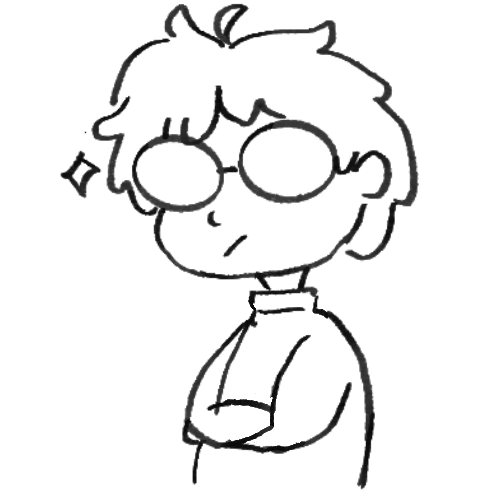
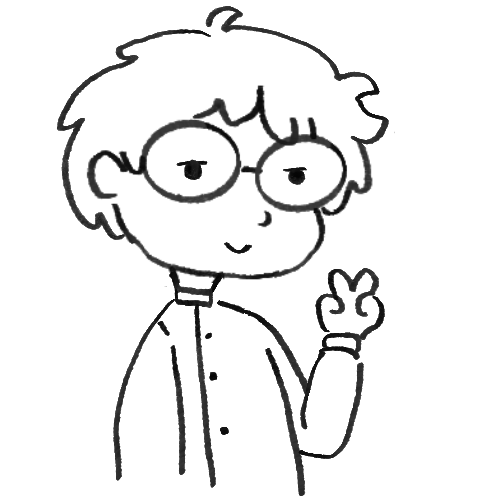
add new case study, hide funhub onboarding case study

diff --git a/work/funhub-design-system.html b/work/funhub-design-system.html
@@ -3,7 +3,7 @@
 <head>
   <meta charset="UTF-8">
   <meta name="viewport" content="width=device-width, initial-scale=1.0">
-  <title data-zh="在改版途中重建 Funhub 的設計系統 — Enn-wen">Rebuilding Funhub’s Design System, Mid-Revamp — Enn-wen</title>
+  <title data-zh="從地基重建一套設計系統 — Enn-wen">Rebuilding a Design System from the Foundation Up — Enn-wen</title>
   <meta name="description" data-zh="設計系統案例分享:在全站改版進行中,獨自將一套數值全寫死的元件庫,從變數、原子元件到完整元件重建為以變數驅動的設計系統。" content="Design system case study: rebuilding a hard-coded component library into a variable-driven system — variables, atoms, then components — solo, mid-revamp.">
   <link rel="icon" type="image/png" href="../img/header-icon.png">
   <link rel="stylesheet" href="../css/style.css">
@@ -37,15 +37,12 @@
   <main>
     <section class="case-hero">
       <span class="category"><span class="i18n-en">Design System · Mobile App</span><span class="i18n-zh">設計系統・行動應用程式</span></span>
-      <h1><span class="i18n-en">Rebuilding Funhub’s Design System, Mid-Revamp</span><span class="i18n-zh">在改版途中重建 Funhub 的設計系統</span></h1>
+      <h1><span class="i18n-en">Rebuilding a Design System from the Foundation Up</span><span class="i18n-zh">從地基重建一套設計系統</span></h1>
       <p class="lede"><span class="i18n-en">How I rebuilt a broken, hard-coded component library into a variable-driven system — solo, while the whole app was being redesigned around me.</span><span class="i18n-zh">我如何在全公司進行 App 改版的同時,獨自將一套破碎、數值全寫死的元件庫,重建成以變數驅動的設計系統。</span></p>
     </section>
 
     <div class="case-cover">
-      <div class="figure-placeholder">
-        <p><strong><span class="i18n-en">Hero Image</span><span class="i18n-zh">主視覺圖片</span></strong><br>
-        <span class="i18n-en">Overview page of the rebuilt component library in Figma — a clean, organised grid of core components.</span><span class="i18n-zh">重建後的 Figma 元件庫總覽頁面——整齊有序的核心元件排列。</span></p>
-      </div>
+      <img src="img/design-systems-cover.png" alt="Overview of Funhub’s rebuilt component library in Figma — an organised grid of core components" width="1600" height="900">
     </div>
 
     <article class="case-body">
@@ -59,15 +56,15 @@
       <dl class="meta">
         <div>
           <dt><span class="i18n-en">Role</span><span class="i18n-zh">角色</span></dt>
-          <dd><span class="i18n-en">Sole Product Designer · Design System Lead</span><span class="i18n-zh">唯一產品設計師・設計系統負責人</span></dd>
+          <dd><span class="i18n-en">Sole Product Designer, Design System Lead</span><span class="i18n-zh">唯一產品設計師・設計系統負責人</span></dd>
         </div>
-        <div>
+        <!-- <div>
           <dt><span class="i18n-en">Team</span><span class="i18n-zh">團隊</span></dt>
           <dd><span class="i18n-en">1 designer, 1 developer, 1 PM</span><span class="i18n-zh">1 位設計師、1 位工程師、1 位產品經理</span></dd>
-        </div>
+        </div> -->
         <div>
           <dt><span class="i18n-en">Tools</span><span class="i18n-zh">工具</span></dt>
-          <dd><span class="i18n-en">Figma (variables, components)</span><span class="i18n-zh">Figma(變數、元件)</span></dd>
+          <dd><span class="i18n-en">Figma</span><span class="i18n-zh">Figma(變數、元件)</span></dd>
         </div>
       </dl>
       <hr>
@@ -254,7 +251,7 @@
         </div>
         <div class="sticky-note sticky-note-card note-a">
           <!-- swap for: <img class="note-doodle" src="img/…" alt="" loading="lazy"> -->
-          <div class="note-doodle note-doodle-empty"><span class="i18n-en">Doodle</span><span class="i18n-zh">手繪插圖</span></div>
+          <img class="note-doodle" src="img/design-system-pm.png" alt="" width="500" height="500" loading="lazy">
           <h4 class="note-role"><span class="i18n-en">The PM</span><span class="i18n-zh">產品經理</span></h4>
           <p class="i18n-en">Saw it as low priority against delivery pressure. I made the efficiency case and won the space to keep building it in.</p>
           <p class="i18n-zh">在交付壓力下認為這件事優先度不高。我從效率的角度說服他,爭取到繼續把系統做進去的空間。</p>
@@ -266,26 +263,39 @@
       
 
       <h2><span class="i18n-en">Outcome</span><span class="i18n-zh">成果</span></h2>
-      <div class="takeaways-grid takeaways-grid-3">
+      <div class="takeaways-grid takeaways-grid-stacked">
         <div class="takeaway">
           <img class="card-doodle" src="img/design-system-designer.png" alt="" width="500" height="500" loading="lazy">
-          <h3><span class="i18n-en">For the Designer</span><span class="i18n-zh">對設計師</span></h3>
-          <p class="i18n-en">A font swap went from hours of manual edits to one variable update.</p>
-          <p class="i18n-zh">換字體從數小時的手動修改,變成只改一個變數。</p>
+          <div class="takeaway-body">
+            <h3><span class="i18n-en">For the Designer</span><span class="i18n-zh">對設計師</span></h3>
+            <p class="i18n-en">Design changes update everywhere from one place, with documentation on how to use the system.</p>
+            <p class="i18n-zh">設計上的調整只要改一處就會全面更新,並附有系統的使用說明文件。</p>
+          </div>
         </div>
         <div class="takeaway">
           <img class="card-doodle" src="img/design-system-dev.png" alt="" width="500" height="500" loading="lazy">
-          <h3><span class="i18n-en">For Engineering</span><span class="i18n-zh">對工程</span></h3>
-          <p class="i18n-en">Fewer design clarifications — the developer self-serves from the guidelines.</p>
-          <p class="i18n-zh">設計確認的往返變少——工程師能自行查閱規範。</p>
+          <div class="takeaway-body">
+            <h3><span class="i18n-en">For Engineering</span><span class="i18n-zh">對工程</span></h3>
+            <p class="i18n-en">Fewer design clarifications — the developer self-serves from the guidelines.</p>
+            <p class="i18n-zh">設計確認的往返變少——工程師能自行查閱規範。</p>
+          </div>
         </div>
         <div class="takeaway">
           <img class="card-doodle" src="img/design-system-teams.png" alt="" width="500" height="500" loading="lazy">
-          <h3><span class="i18n-en">For the Team</span><span class="i18n-zh">對團隊</span></h3>
-          <p class="i18n-en">One source of truth everyone can point to — marketing, product, and engineering all pull from the same library instead of guessing.</p>
-          <p class="i18n-zh">一個所有人都能引用的單一真實來源——行銷、產品與工程都從同一套元件庫取用,不必再各自猜測。</p>
+          <div class="takeaway-body">
+            <h3><span class="i18n-en">For the Team</span><span class="i18n-zh">對團隊</span></h3>
+            <p class="i18n-en">One source of truth everyone can point to — marketing, product, and engineering all pull from the same library instead of guessing.</p>
+            <p class="i18n-zh">一個所有人都能引用的單一真實來源——行銷、產品與工程都從同一套元件庫取用,不必再各自猜測。</p>
+          </div>
         </div>
       </div>
+
+      <!-- <figure>
+        <img src="img/design-system-outcome.png" alt="Overview of Funhub’s rebuilt component library in Figma — an organised grid of core components" loading="lazy">
+      </figure> -->
+      <figure>
+        <img src="img/design-system-outcome.png" alt="Overview of Funhub’s rebuilt component library in Figma — an organised grid of core components" loading="lazy">
+      </figure>
 
       <h2><span class="i18n-en">Next Step</span><span class="i18n-zh">後續步驟</span></h2>
       <p class="i18n-en">This was intentionally a first maturity step, not a finish line. The roadmap from here:</p>
@@ -309,18 +319,20 @@
       </div>
 
       <h2><span class="i18n-en">What I Learned</span><span class="i18n-zh">我學到的</span></h2>
-      <p class="i18n-en"><strong>Right-Sizing Beats Best Practice</strong><br>
-      The "correct" system on paper would have failed here. Scoping to what the team could absorb, and then improving later, was what made it stick.</p>
-      <p class="i18n-zh"><strong>「合適的規模」勝過「最佳實務」</strong><br>
-      紙上「正確」的系統,在這裡反而會失敗。把範圍收斂到團隊能承受的程度、並刻意把其餘部分往後延,才是讓它真正被用起來的原因。</p>
-      <p class="i18n-en"><strong>Efficiency Starts With the Base</strong><br>
-      A strong base matters: without it, the whole system becomes messy and hard to work with, and efficiency suffers. Building variables and atoms early let the revamp screens use the system while it was still being built, and a font change became a one-line fix.</p>
-      <p class="i18n-zh"><strong>建構順序決定了彈性</strong><br>
-      彈性沒辦法事後補上,它取決於你最先做了什麼。先做變數與原子元件,改版畫面才能在系統尚未完工時就開始使用它,而換字體也才會一直是一個「改一次」的決定。</p>
-      <p class="i18n-en"><strong>Adoption Is a Design Problem Too</strong><br>
-      The components were the easy part. Getting a developer and a PM to trust and use the system took gradual onboarding and an efficiency argument — not a mandate.</p>
-      <p class="i18n-zh"><strong>導入本身也是一道設計題</strong><br>
-      元件是相對容易的部分。要讓工程師與產品經理信任並使用這套系統,靠的是漸進式的引導與效率上的說服,而不是命令。</p>
+      <ul>
+        <li class="i18n-en"><strong>Right-Sizing Beats Best Practice</strong><br>
+        The "correct" system on paper would have failed here. Scoping to what the team could absorb, and then improving later, was what made it stick.</li>
+        <li class="i18n-zh"><strong>「合適的規模」勝過「最佳實務」</strong><br>
+        紙上「正確」的系統,在這裡反而會失敗。把範圍收斂到團隊能承受的程度、並刻意把其餘部分往後延,才是讓它真正被用起來的原因。</li>
+        <li class="i18n-en"><strong>Efficiency Starts With the Base</strong><br>
+        A strong base matters: without it, the whole system becomes messy and hard to work with, and efficiency suffers. Building variables and atoms early let the revamp screens use the system while it was still being built, and a font change became a one-line fix.</li>
+        <li class="i18n-zh"><strong>建構順序決定了彈性</strong><br>
+        彈性沒辦法事後補上,它取決於你最先做了什麼。先做變數與原子元件,改版畫面才能在系統尚未完工時就開始使用它,而換字體也才會一直是一個「改一次」的決定。</li>
+        <li class="i18n-en"><strong>Adoption Is a Design Problem Too</strong><br>
+        The components were the easy part. Getting a developer and a PM to trust and use the system took gradual onboarding and an efficiency argument — not a mandate.</li>
+        <li class="i18n-zh"><strong>導入本身也是一道設計題</strong><br>
+        元件是相對容易的部分。要讓工程師與產品經理信任並使用這套系統,靠的是漸進式的引導與效率上的說服,而不是命令。</li>
+      </ul>
     </article>
 
     <nav class="case-nav" aria-label="Project navigation">

diff --git a/index.html b/index.html
@@ -69,7 +69,19 @@
       <h2><span class="i18n-en">Selected Works</span><span class="i18n-zh">精選作品</span></h2>
       <div class="work-grid">
 
-         <a class="tile tile-b" href="work/imoney-user-research.html" data-reveal>
+        <a class="tile tile-b" href="work/funhub-design-system.html" data-reveal>
+          <figure class="tile-media">
+            <img src="work/img/design-system-thumbnail.png" alt="Funhub’s rebuilt design system in Figma — an organised grid of core components" loading="lazy">
+          </figure>
+          <div class="tile-caption">
+            <div>
+              <h3><span class="i18n-en">Rebuilding a Design System from the Foundation Up</span><span class="i18n-zh">從地基重建一套設計系統</span></h3>
+            </div>
+            <span class="tile-arrow" aria-hidden="true">→</span>
+          </div>
+        </a>
+
+        <a class="tile tile-b" href="work/imoney-user-research.html" data-reveal>
           <figure class="tile-media">
             <img src="work/img/imoney-user-research-thumbnail.jpg" alt="From Survey to Interview: understanding why iMoney users stay or leave — placeholder thumbnail" loading="lazy">
           </figure>
@@ -93,7 +105,7 @@
           </div>
         </a>
 
-        <a class="tile tile-b" href="work/funhub-signup.html" data-reveal>
+        <!-- <a class="tile tile-b" href="work/funhub-signup.html" data-reveal>
           <figure class="tile-media">
             <img src="work/img/funhub-signup-999812566b.png" alt="Funhub sign-up flow improvement — onboarding screens" loading="lazy">
           </figure>
@@ -103,7 +115,7 @@
             </div>
             <span class="tile-arrow" aria-hidden="true">→</span>
           </div>
-        </a>
+        </a> -->
 
         <!-- <a class="tile tile-b" href="work/hiredly-onboarding.html" data-reveal>
           <figure class="tile-media">
@@ -124,21 +136,6 @@
           <div class="tile-caption">
             <div>
               <h3><span class="i18n-en">Hiredly’s Resume Builder (w. User Profile Redesign)</span><span class="i18n-zh">Hiredly 的履歷產生器(含個人檔案重新設計)</span></h3>
-            </div>
-            <span class="tile-arrow" aria-hidden="true">→</span>
-          </div>
-        </a>
-
-        <a class="tile tile-b" href="work/funhub-design-system.html" data-reveal>
-          <figure class="tile-media">
-            <div class="figure-placeholder">
-              <span class="icon" aria-hidden="true">🧩</span>
-              <p><strong><span class="i18n-en">Thumbnail</span><span class="i18n-zh">縮圖</span></strong></p>
-            </div>
-          </figure>
-          <div class="tile-caption">
-            <div>
-              <h3><span class="i18n-en">Rebuilding Funhub’s Design System, Mid-Revamp</span><span class="i18n-zh">在改版途中重建 Funhub 的設計系統</span></h3>
             </div>
             <span class="tile-arrow" aria-hidden="true">→</span>
           </div>

diff --git a/footer.html b/footer.html
@@ -16,12 +16,12 @@
           <div class="footer-col">
             <p class="footer-heading"><span class="i18n-en">My Work</span><span class="i18n-zh">我的作品</span></p>
             <ul class="footer-links">
-              <li><a href="/work/funhub-deals.html"><span class="i18n-en">Funhub Deals &amp; Vouchers</span><span class="i18n-zh">Funhub 優惠與票券</span></a></li>
-              <li><a href="/work/funhub-design-system.html"><span class="i18n-en">Funhub Design System</span><span class="i18n-zh">Funhub 設計系統</span></a></li>
-              <li><a href="/work/funhub-signup.html"><span class="i18n-en">Funhub Sign Up Flow</span><span class="i18n-zh">Funhub 註冊流程</span></a></li>
-              <li><a href="/work/hiredly-onboarding.html"><span class="i18n-en">Hiredly Onboarding</span><span class="i18n-zh">Hiredly 新手導覽</span></a></li>
-              <li><a href="/work/hiredly-resume.html"><span class="i18n-en">Hiredly Resume Builder</span><span class="i18n-zh">Hiredly 履歷產生器</span></a></li>
+              <li><a href="/work/funhub-design-system.html"><span class="i18n-en">Design System Rebuild</span><span class="i18n-zh">設計系統重建</span></a></li>
               <li><a href="/work/imoney-user-research.html"><span class="i18n-en">iMoney User Research</span><span class="i18n-zh">iMoney 使用者研究</span></a></li>
+              <li><a href="/work/funhub-deals.html"><span class="i18n-en">Funhub Deals &amp; Vouchers</span><span class="i18n-zh">Funhub 優惠與票券</span></a></li>
+              <li><a href="/work/hiredly-resume.html"><span class="i18n-en">Hiredly Resume Builder</span><span class="i18n-zh">Hiredly 履歷產生器</span></a></li>
+              <!-- <li><a href="/work/funhub-signup.html"><span class="i18n-en">Funhub Sign Up Flow</span><span class="i18n-zh">Funhub 註冊流程</span></a></li> -->
+              <!-- <li><a href="/work/hiredly-onboarding.html"><span class="i18n-en">Hiredly Onboarding</span><span class="i18n-zh">Hiredly 新手導覽</span></a></li> -->
             </ul>
           </div>
           <div class="footer-col">

diff --git a/work/hiredly-resume.html b/work/hiredly-resume.html
@@ -137,13 +137,13 @@
     </article>
 
     <nav class="case-nav" aria-label="Project navigation">
-      <a href="funhub-signup.html" class="prev">
+      <a href="funhub-deals.html" class="prev">
         <span class="label"><span class="i18n-en">← Previous</span><span class="i18n-zh">← 上一篇</span></span>
-        <span class="title"><span class="i18n-en">Improving the Sign Up Flow for Funhub App</span><span class="i18n-zh">優化 Funhub App 的註冊流程</span></span>
+        <span class="title"><span class="i18n-en">Revamping the Funhub App’s Deals and Voucher Pages</span><span class="i18n-zh">重新設計 Funhub App 的優惠與票券頁面</span></span>
       </a>
       <a href="funhub-design-system.html" class="next">
         <span class="label"><span class="i18n-en">Next →</span><span class="i18n-zh">下一篇 →</span></span>
-        <span class="title"><span class="i18n-en">Rebuilding Funhub’s Design System, Mid-Revamp</span><span class="i18n-zh">在改版途中重建 Funhub 的設計系統</span></span>
+        <span class="title"><span class="i18n-en">Rebuilding a Design System from the Foundation Up</span><span class="i18n-zh">從地基重建一套設計系統</span></span>
       </a>
     </nav>
   </main>

diff --git a/css/style.css b/css/style.css
@@ -1184,6 +1184,7 @@ body.lightbox-open { overflow: hidden; }
 
 .case-cover img {
   width: 100%;
+  height: auto;
   display: block;
   border-radius: var(--radius-lg);
   /* box-shadow: var(--shadow-tile); */
@@ -1338,6 +1339,7 @@ body.lightbox-open { overflow: hidden; }
 
 .case-body figure img {
   width: 100%;
+  height: auto;
   display: block;
   border-radius: var(--radius-md);
   border: 1px solid var(--line);
@@ -1601,6 +1603,35 @@ body.lightbox-open { overflow: hidden; }
 @media (max-width: 700px) {
   .takeaways-grid-2,
   .takeaways-grid-3 { grid-template-columns: 1fr; }
+}
+
+/* stacked variant — one card per row, doodle beside the copy instead of above it */
+
+.takeaways-grid-stacked { grid-template-columns: 1fr; }
+
+.takeaways-grid-stacked .takeaway {
+  display: flex;
+  align-items: center;
+  gap: 1.5rem;
+}
+
+.case-body .takeaways-grid-stacked .card-doodle {
+  flex: 0 0 6.6rem;
+  width: 6.6rem;
+  max-width: 6.6rem;
+  margin: 0;
+}
+
+@media (max-width: 700px) {
+  .takeaways-grid-stacked .takeaway {
+    display: block;
+  }
+
+  .case-body .takeaways-grid-stacked .card-doodle {
+    width: 4.8rem;
+    max-width: 45%;
+    margin: 0 0 0.75rem;
+  }
 }
 
 .takeaway {

diff --git a/work/funhub-deals.html b/work/funhub-deals.html
@@ -381,9 +381,9 @@
         <span class="label"><span class="i18n-en">← Previous</span><span class="i18n-zh">← 上一篇</span></span>
         <span class="title"><span class="i18n-en">From Survey to Interview: Understanding Why iMoney Users Stay or Leave</span><span class="i18n-zh">從問卷到訪談:理解 iMoney 使用者為何留下或離開</span></span>
       </a>
-      <a href="funhub-signup.html" class="next">
+      <a href="hiredly-resume.html" class="next">
         <span class="label"><span class="i18n-en">Next →</span><span class="i18n-zh">下一篇 →</span></span>
-        <span class="title"><span class="i18n-en">Improving the Sign Up Flow for Funhub App</span><span class="i18n-zh">優化 Funhub App 的註冊流程</span></span>
+        <span class="title"><span class="i18n-en">Hiredly’s Resume Builder</span><span class="i18n-zh">Hiredly 的履歷產生器</span></span>
       </a>
     </nav>
   </main>

diff --git a/work/imoney-user-research.html b/work/imoney-user-research.html
@@ -325,7 +325,7 @@
     <nav class="case-nav" aria-label="Project navigation">
       <a href="funhub-design-system.html" class="prev">
         <span class="label"><span class="i18n-en">← Previous</span><span class="i18n-zh">← 上一篇</span></span>
-        <span class="title"><span class="i18n-en">Rebuilding Funhub’s Design System, Mid-Revamp</span><span class="i18n-zh">在改版途中重建 Funhub 的設計系統</span></span>
+        <span class="title"><span class="i18n-en">Rebuilding a Design System from the Foundation Up</span><span class="i18n-zh">從地基重建一套設計系統</span></span>
       </a>
       <a href="funhub-deals.html" class="next">
         <span class="label"><span class="i18n-en">Next →</span><span class="i18n-zh">下一篇 →</span></span>
